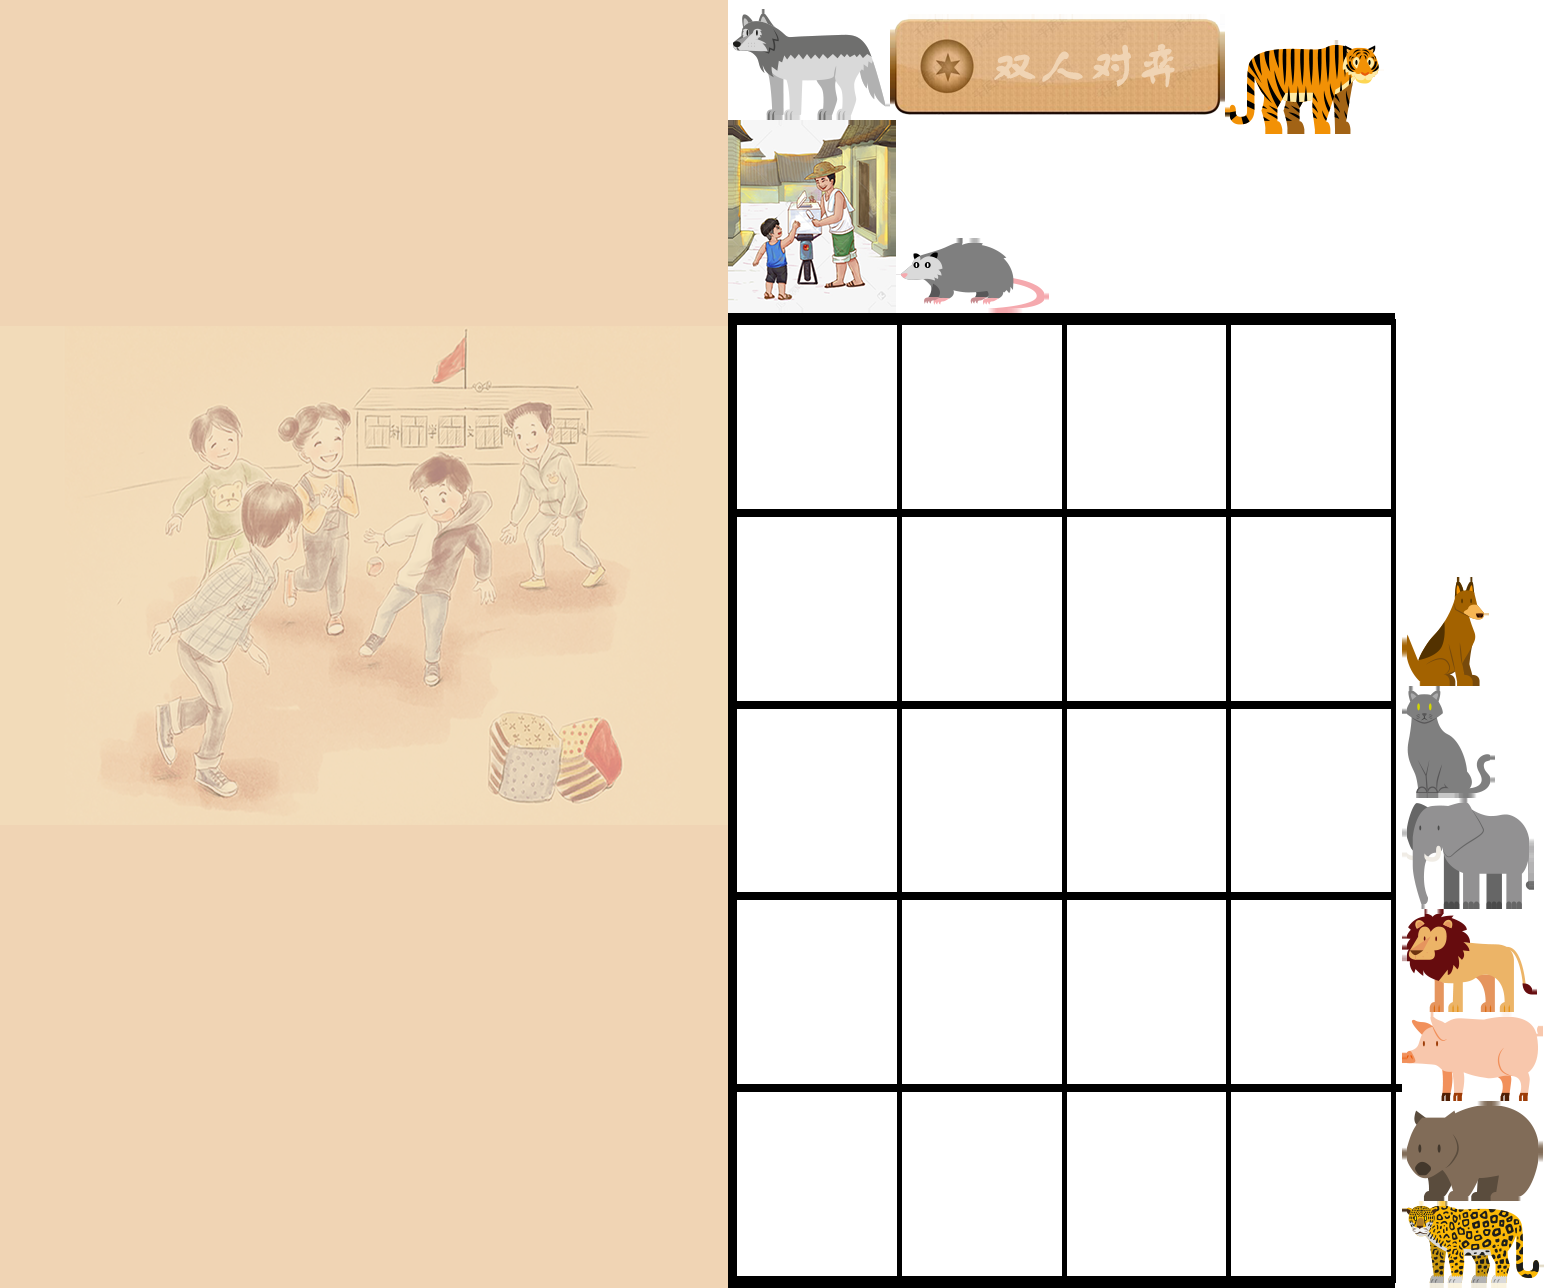
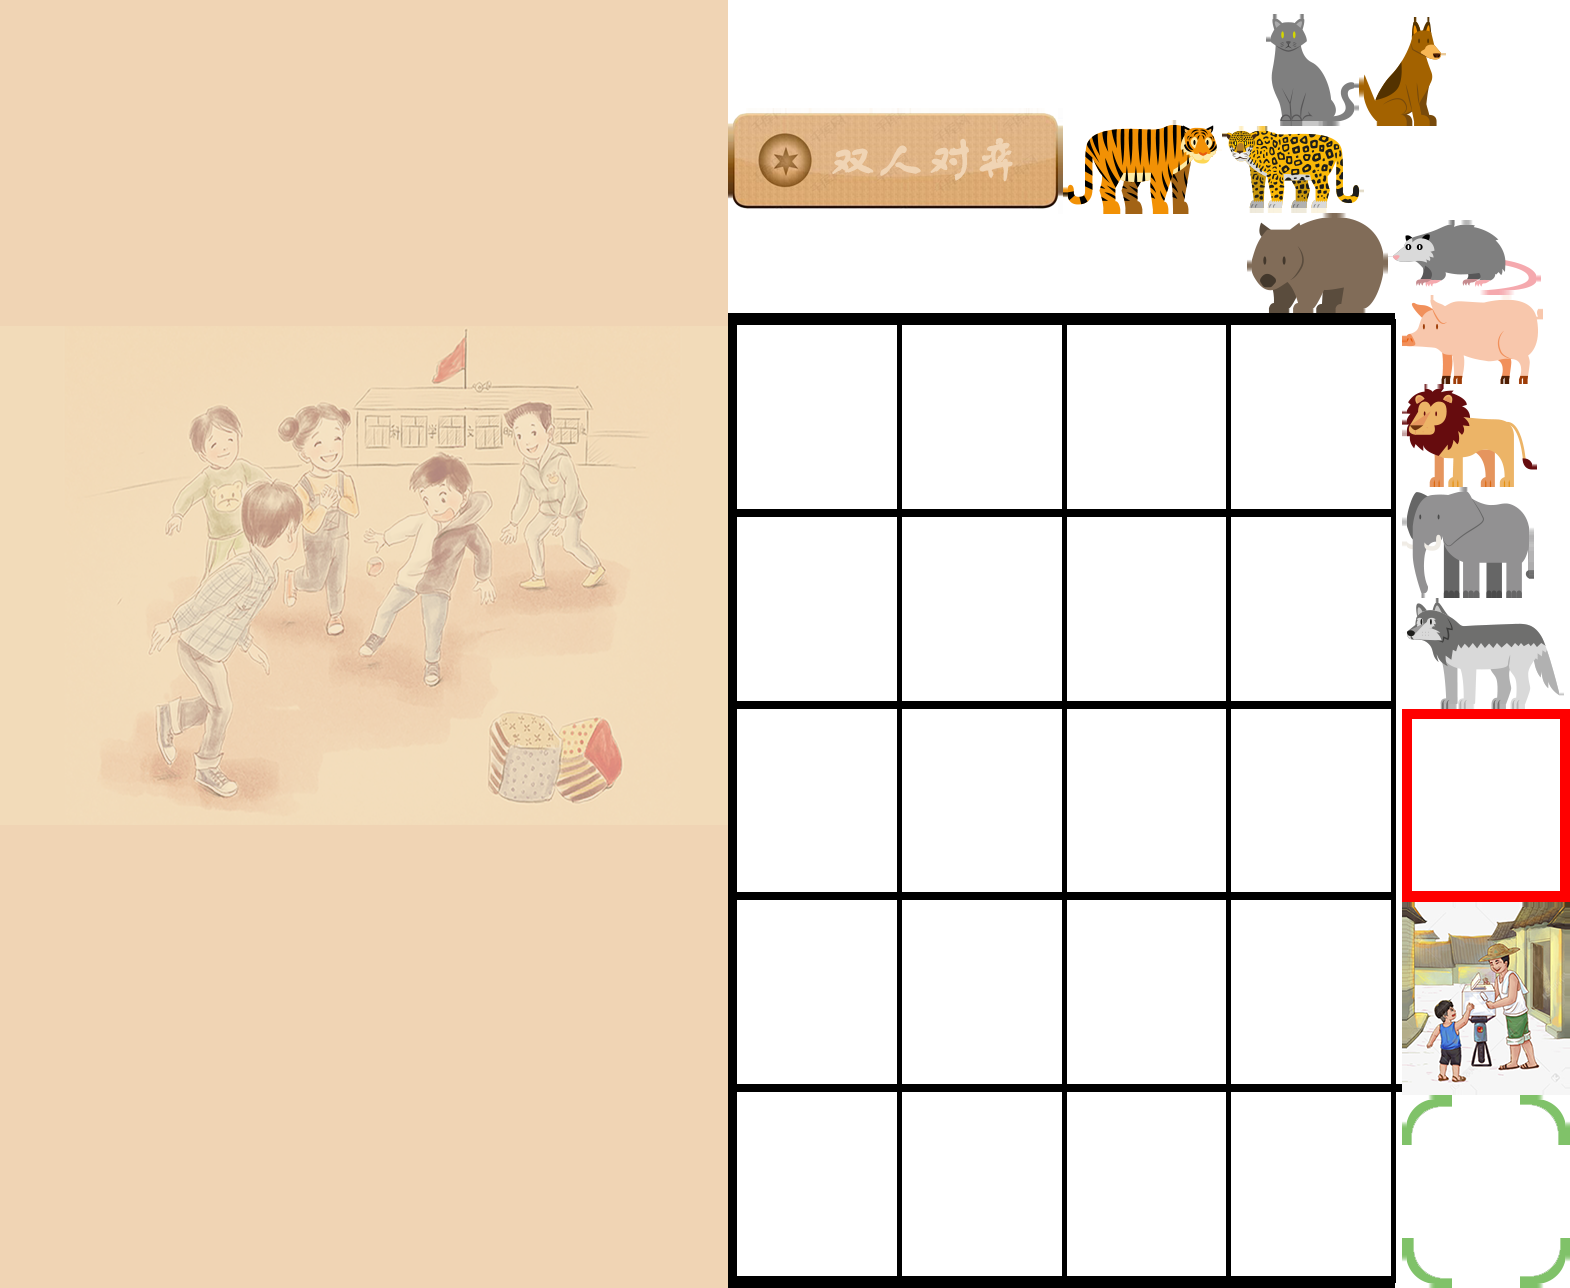
不知道改了什么东西，打算冲洗写一下

diff --git a/core/src/kw/mulitplay/game/actor/PackActor.java b/core/src/kw/mulitplay/game/actor/PackActor.java
@@ -1,8 +1,10 @@
 package kw.mulitplay.game.actor;
 
 import com.badlogic.gdx.graphics.Color;
+import com.badlogic.gdx.scenes.scene2d.Action;
 import com.badlogic.gdx.scenes.scene2d.Group;
 import com.badlogic.gdx.scenes.scene2d.InputEvent;
+import com.badlogic.gdx.scenes.scene2d.actions.Actions;
 import com.badlogic.gdx.scenes.scene2d.ui.Image;
 import com.badlogic.gdx.scenes.scene2d.ui.Label;
 import com.badlogic.gdx.scenes.scene2d.utils.ClickListener;
@@ -28,9 +30,10 @@ public class PackActor extends Group {
     private short currentStatus;
     private short ower;
     private boolean live = true;
+    private Image select;
     public PackActor(String name){
         setSize(160,185);
-        Image image = new Image(Resource.atlas.findRegion("white"));
+        Image image = new Image(Resource.atlas.findRegion("canmove"));
         setName(name);
         addActor(image);
         setVisible(false);
@@ -63,7 +66,7 @@ public class PackActor extends Group {
         fanPack.setPosition(getWidth()/2,getHeight()/2, Align.center);
         zhengPack = new Image(Resource.atlas.findRegion(num+""));
         addActor(zhengPack);
-        zhengPack.setVisible(false);
+        zhengPack.getColor().a = 0;
         zhengPack.setPosition(getWidth(),0,Align.bottomRight);
         name = data.getAnimalData().get(num);
         animalLabel = new Label(name,new Label.LabelStyle(){{font = FontResource.animalfont;}});
@@ -73,6 +76,10 @@ public class PackActor extends Group {
         animalLabel.setPosition(20,getHeight()-20, Align.center);
         addActor(fanPack);
         setXY(x,y);
+        select = new Image(Resource.atlas.findRegion("select"));
+        addActor(select);
+        select.setVisible(false);
+        select.setPosition(getWidth()/2,getHeight()/2,Align.center);
     }
 
     public int getTempX() {
@@ -95,8 +102,8 @@ public class PackActor extends Group {
 
     public void open(){
         currentStatus = Constant.ZHENGMIAN;
-        fanPack.setVisible(false);
-        zhengPack.setVisible(true);
+        fanPack.addAction(Actions.alpha(0,0.2F));
+        zhengPack.addAction(Actions.alpha(1,0.2F));
     }
 
     public void setListener(TachListener listener) {
@@ -120,6 +127,12 @@ public class PackActor extends Group {
 
     public Color getOtherColor() {
         return useColor == redColor ? blackColor : redColor;
+    }
+
+    public void setXYAnima(int x, int y) {
+        this.tempX = x;
+        this.tempY = y;
+        addAction(Actions.moveTo(x*(getWidth()+4.5F),y*(getHeight()+7),0.2F));
     }
 
     public interface TachListener{
@@ -153,5 +166,16 @@ public class PackActor extends Group {
     @Override
     public String toString() {
         return "name:"+getName()+",x:"+tempX+",y:"+tempY;
+    }
+
+    @Override
+    public void setScale(float scaleX,float scaleY) {
+        super.setScale(scaleX);
+        if (scaleY == 1F){
+            select.setVisible(false);
+        }else {
+            select.setVisible(true);
+            toFront();
+        }
     }
 }

diff --git a/core/src/kw/mulitplay/game/screen/panel/GamePanel.java b/core/src/kw/mulitplay/game/screen/panel/GamePanel.java
@@ -282,7 +282,7 @@ public class GamePanel extends Group {
         PackActor last = packActors.getLast();
         arr[last.getTempX()][last.getTempY()] = 0;
         arr[tempX][tempY] = Integer.parseInt(last.getName());
-        last.setXY(tempX,tempY);
+        last.setXYAnima(tempX,tempY);
         last.setAnimalScale(1);
         target.setVisible(false);
         changePlayer();
@@ -378,7 +378,7 @@ public class GamePanel extends Group {
             }else if ((last.getNum() == 10&&num==1)||num>=last.getNum()){
                 target.appear();
                 removeTarget(target);
-                last.setXY(targetX,targetY);
+                last.setXYAnima(targetX,targetY);
                 arr[targetX][targetY] = arr[lastX][lastY];
                 arr[lastX][lastY] = 0;
                 last.setAnimalScale(1);
@@ -408,11 +408,18 @@ public class GamePanel extends Group {
     private void checkPassLevel() {
         if (redPackActors.size<=0){
             updateListener.passLevelPass("black win",true);
-            Constant.multServer.closed();
-            Constant.multClient.closed();
+            closedNet();
         }else if (blackPackActors.size<=0){
             updateListener.passLevelPass("red win",true);
+            closedNet();
+        }
+    }
+
+    public void closedNet(){
+        if (Constant.multServer!=null) {
             Constant.multServer.closed();
+        }
+        if (Constant.multClient!=null){
             Constant.multClient.closed();
         }
     }

diff --git a/core/src/kw/mulitplay/game/MulitPlayGame.java b/core/src/kw/mulitplay/game/MulitPlayGame.java
@@ -6,6 +6,11 @@ import com.badlogic.gdx.assets.AssetManager;
 import com.badlogic.gdx.graphics.GL20;
 import com.badlogic.gdx.graphics.g2d.CpuSpriteBatch;
 import com.badlogic.gdx.utils.viewport.ExtendViewport;
+import com.badlogic.gdx.utils.viewport.FillViewport;
+import com.badlogic.gdx.utils.viewport.FitViewport;
+import com.badlogic.gdx.utils.viewport.ScalingViewport;
+import com.badlogic.gdx.utils.viewport.ScreenViewport;
+import com.badlogic.gdx.utils.viewport.StretchViewport;
 import com.badlogic.gdx.utils.viewport.Viewport;
 
 import kw.mulitplay.game.constant.Constant;
@@ -16,13 +21,11 @@ public class MulitPlayGame extends Game {
     @Override
     public void create() {
         initInstance();
-        //create viewport and as a constant
         setScreen(new LoadingScreen());
     }
 
     public void initInstance(){
         Constant.viewport = viewport = new ExtendViewport(720,1280);
-        // call to set value Constant.width and Constant.height
         resize(Gdx.graphics.getWidth(),Gdx.graphics.getHeight());
         //create batch
         Constant.batch = new CpuSpriteBatch();

diff --git a/core/src/kw/mulitplay/game/screen/LoadingScreen.java b/core/src/kw/mulitplay/game/screen/LoadingScreen.java
@@ -15,6 +15,7 @@ import kw.mulitplay.game.screen.base.BaseScreen;
 public class LoadingScreen extends BaseScreen {
     private AssetManager assetManager;
     private boolean out;
+    private float time;
 
     @Override
     protected void initView() {
@@ -24,7 +25,6 @@ public class LoadingScreen extends BaseScreen {
         image.setOrigin(Align.center);
         image.setScale(Constant.bgScale);
         image.setY(Constant.height/2,Align.center);
-        //init resource
         Constant.resource = new Resource();
     }
 
@@ -41,6 +41,7 @@ public class LoadingScreen extends BaseScreen {
     @Override
     public void render(float delta) {
         super.render(delta);
+        time+=delta;
         enterNextScreen();
     }
 

diff --git a/desktop/src/com/kangwang/word/DesktopLauncher.java b/desktop/src/com/kangwang/word/DesktopLauncher.java
@@ -13,8 +13,8 @@ public class DesktopLauncher {
         texturePack();
         LwjglApplicationConfiguration config = new LwjglApplicationConfiguration();
         config.title = "wrod squares";
-        config.width =460; //485
-        config.height =840;
+        config.width =360; //485
+        config.height = 640;
         new LwjglApplication(new MulitPlayGame(),config);
     }
 

diff --git a/core/src/kw/mulitplay/game/net/MultServer.java b/core/src/kw/mulitplay/game/net/MultServer.java
@@ -33,6 +33,8 @@ public class MultServer{
             @Override
             public void received(Connection connection, Object object) {
                 super.received(connection, object);
+
+
                 if (object instanceof Message) {
                     Message object1 = (Message) object;
                     VectorPosition position = ((Message) object).getPosition();
